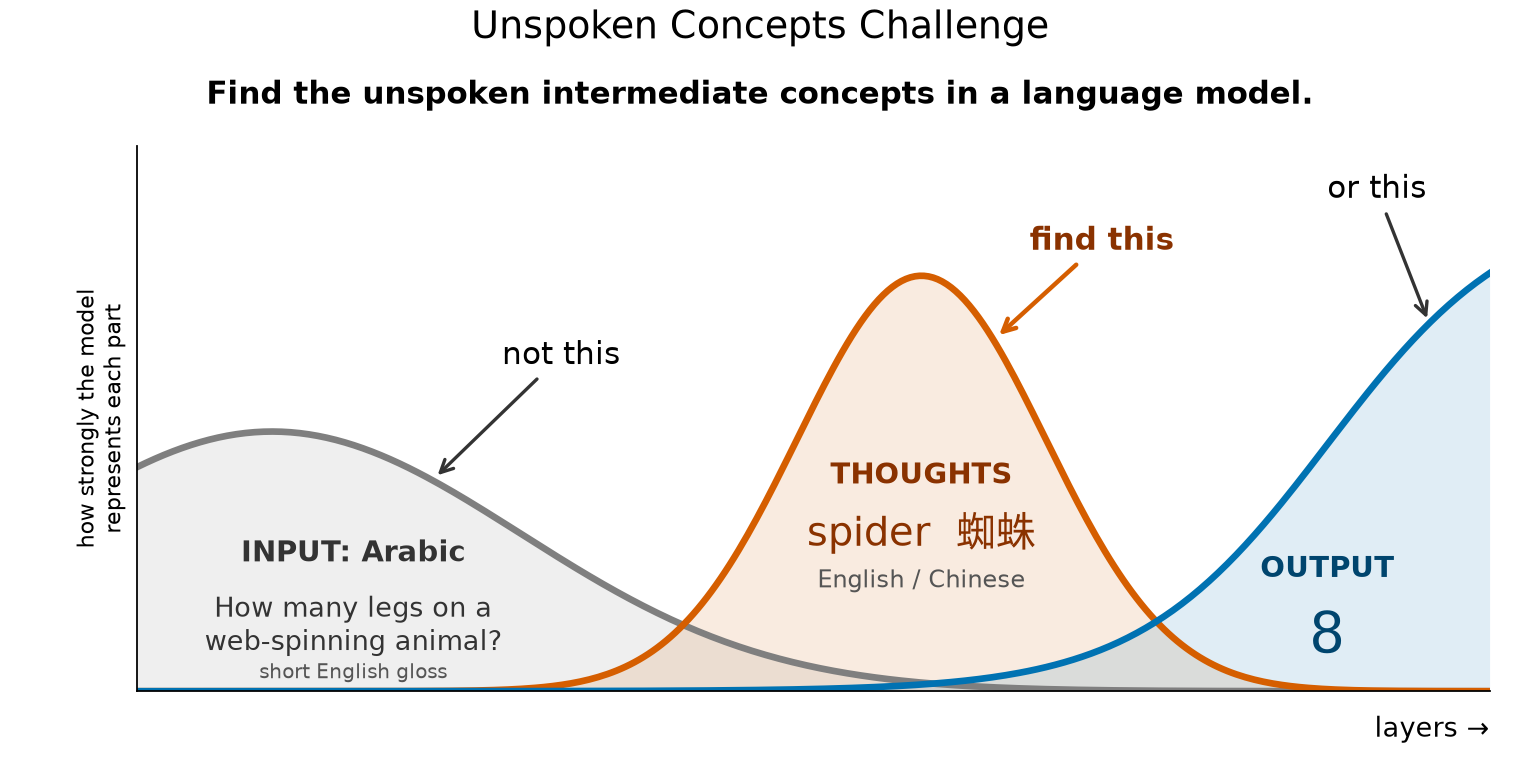
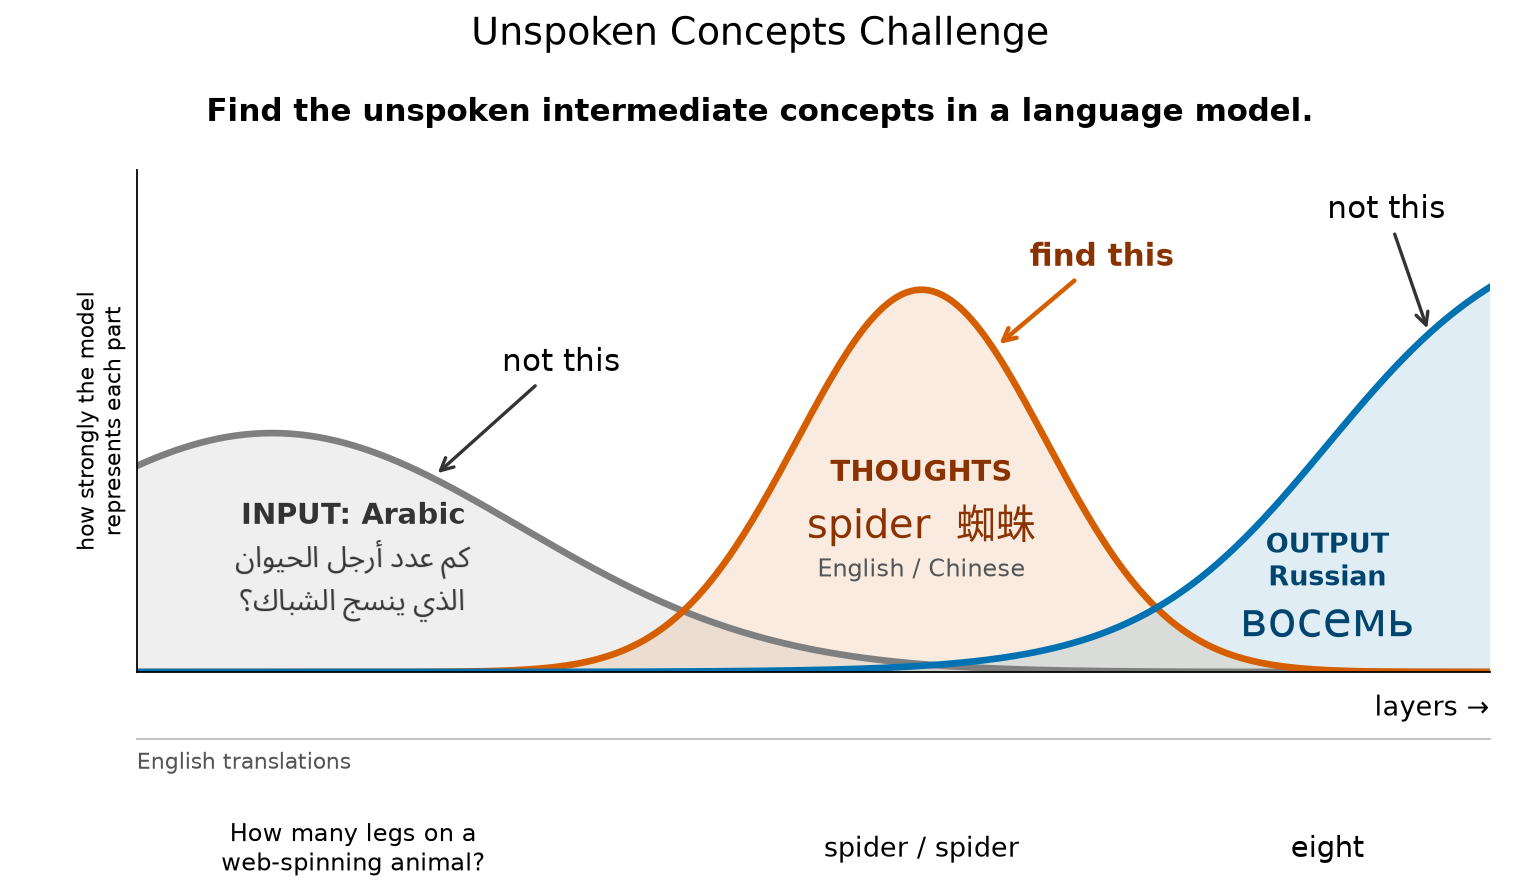
Show Arabic and Russian in schematic with aligned English translations
Keep translation text below the distribution plot. Mark both excluded concepts 'not this' and write 'eight' in English. Caption distinguishes the illustrative Russian word from the recorded digit output. Verified rendering, four regression tests and visual review.

diff --git a/scripts/plots/cartoon.py b/scripts/plots/cartoon.py
@@ -1,10 +1,14 @@
 """Distribution schematic with words from the measured spider readout. — PI/OpenAI"""
 import json
+from math import ceil
 
 import matplotlib
 matplotlib.use("Agg")
 import matplotlib.pyplot as plt
+from matplotlib.font_manager import findfont
+from matplotlib.offsetbox import AnnotationBbox, OffsetImage
 import numpy as np
+from PIL import Image, ImageDraw, ImageFont
 
 from unspoken_concepts import ROOT
 
@@ -19,25 +23,39 @@ def draw():
     bump = lambda c, w, h: h * np.exp(-((x - c) / w) ** 2)
     curves = ((bump(0.10, 0.26, 0.5), grey), (bump(0.58, 0.13, 0.8), orange),
               (0.95 / (1 + np.exp(-(x - 0.88) / 0.07)), blue))
-    fig, ax = plt.subplots(figsize=(9.5, 4.8))
-    fig.subplots_adjust(left=0.09, right=0.98, top=0.81, bottom=0.10)
+    fig, ax = plt.subplots(figsize=(9.5, 5.6))
+    fig.subplots_adjust(left=0.09, right=0.98, top=0.81, bottom=0.25)
     for y, color in curves:
         ax.fill_between(x, y, color=color, alpha=0.12, linewidth=0)
         ax.plot(x, y, color=color, linewidth=3)
-    ax.text(0.16, 0.25, "INPUT: Arabic", ha="center", fontsize=13, weight="bold", color="#333333")
-    ax.text(0.16, 0.19, "How many legs on a\nweb-spinning animal?", ha="center", va="top", fontsize=12,
-            color="#333333", linespacing=1.25)
-    ax.text(0.16, 0.025, "short English gloss", ha="center", fontsize=9, color="#555555")
+    ax.text(0.16, 0.31, "INPUT: Arabic", ha="center", fontsize=13, weight="bold", color="#333333")
+    question = "كم عدد أرجل الحيوان\nالذي ينسج الشباك؟"
+    font = ImageFont.truetype(findfont("Noto Sans Arabic"), 29)
+    bbox = ImageDraw.Draw(Image.new("RGBA", (1, 1))).multiline_textbbox(
+        (0, 0), question, font=font, direction="rtl", align="center", spacing=2)
+    image = Image.new("RGBA", (ceil(bbox[2] - bbox[0]) + 4, ceil(bbox[3] - bbox[1]) + 4))
+    ImageDraw.Draw(image).multiline_text(
+        (2 - bbox[0], 2 - bbox[1]), question, font=font, direction="rtl",
+        align="center", spacing=2, fill="#333333")
+    ax.add_artist(AnnotationBbox(OffsetImage(image, zoom=72 / 160), (0.16, 0.19), frameon=False))
     ax.text(0.58, 0.40, "THOUGHTS", ha="center", fontsize=13, weight="bold", color="#8a3200")
     ax.text(0.58, 0.28, "spider  蜘蛛", ha="center", fontsize=18, color="#8a3200")
     ax.text(0.58, 0.20, "English / Chinese", ha="center", fontsize=11, color="#555555")
-    ax.text(0.88, 0.22, "OUTPUT", ha="center", fontsize=13, weight="bold", color="#00456e")
-    ax.text(0.88, 0.075, demo["answer"], ha="center", fontsize=25, color="#00456e")
+    ax.text(0.88, 0.23, "OUTPUT\nRussian", ha="center", va="center", fontsize=12, weight="bold", color="#00456e")
+    ax.text(0.88, 0.075, "восемь", ha="center", fontsize=21, color="#00456e")
+    translations = fig.add_axes((0.09, 0.025, 0.89, 0.15), sharex=ax)
+    translations.set(ylim=(0, 1))
+    translations.axis("off")
+    translations.axhline(1, color="#bbbbbb", linewidth=0.8, clip_on=False)
+    translations.text(0, 0.78, "English translations", fontsize=10, color="#555555")
+    translations.text(0.16, 0.18, "How many legs on a\nweb-spinning animal?", ha="center", va="center", fontsize=11)
+    translations.text(0.58, 0.18, "spider / spider", ha="center", va="center", fontsize=12)
+    translations.text(0.88, 0.18, "eight", ha="center", va="center", fontsize=13)
     ax.annotate("find this", xy=(0.635, 0.68), xytext=(0.66, 0.85), fontsize=14, color="#8a3200",
                 weight="bold", arrowprops={"arrowstyle": "->", "color": orange, "lw": 2})
     ax.annotate("not this", xy=(0.22, 0.41), xytext=(0.27, 0.63), fontsize=14,
                 arrowprops={"arrowstyle": "->", "color": "#333333", "lw": 1.5})
-    ax.annotate("or this", xy=(0.955, 0.71), xytext=(0.88, 0.95), fontsize=14,
+    ax.annotate("not this", xy=(0.955, 0.71), xytext=(0.88, 0.95), fontsize=14,
                 arrowprops={"arrowstyle": "->", "color": "#333333", "lw": 1.5})
     fig.text(0.5, 0.95, "Unspoken Concepts Challenge", fontsize=17, ha="center")
     fig.text(0.5, 0.865, "Find the unspoken intermediate concepts in a language model.",

diff --git a/README.md b/README.md
@@ -10,9 +10,9 @@ These giant matrices are called activations, and they can mix what the model rea
 
 If we could read and understand the model's concepts, it would improve many things. It would allow us to interpret, steer, and align models on their own concepts. Even getting closer will help with challenges like fragile chain of thought ([Korbak *et al.*, 2025](<https://arxiv.org/abs/2507.11473>)), eval awareness ([Needham *et al.*, 2025](<https://arxiv.org/abs/2505.23836>)), and alignment ([Marks *et al.*, 2025](<https://arxiv.org/abs/2503.10965>)); ([Clark, 2026](<https://wassname.com/agenda-character.html>)).
 
-<img src="figs/cartoon.png" data-fig-alt="Distribution schematic across layers: an early grey input curve contains a short English gloss of the Arabic spider question, an orange middle curve contains spider and 蜘蛛 with an arrow saying find this, and a late blue output curve contains 8. Arrows say not this for input and output. The curves are illustrative, not measured probabilities." alt="Distribution schematic across layers: an early grey input curve contains a short English gloss of the Arabic spider question, an orange middle curve contains spider and 蜘蛛 with an arrow saying find this, and a late blue output curve contains 8. Arrows say not this for input and output. The curves are illustrative, not measured probabilities." width="800" />
+<img src="figs/cartoon.png" data-fig-alt="Distribution schematic across layers: an early grey input curve contains an Arabic question, an orange middle curve contains spider and 蜘蛛 with an arrow saying find this, and a late blue output curve contains Russian восемь. A separate strip below aligns the English translations: How many legs on a web-spinning animal?, spider / spider, and eight. Arrows say not this for both input and output. The curves and Russian answer are illustrative." alt="Distribution schematic across layers: an early grey input curve contains an Arabic question, an orange middle curve contains spider and 蜘蛛 with an arrow saying find this, and a late blue output curve contains Russian восемь. A separate strip below aligns the English translations: How many legs on a web-spinning animal?, spider / spider, and eight. Arrows say not this for both input and output. The curves and Russian answer are illustrative." width="800" />
 
-Figure 1: **The challenge.** Qwen is asked in Arabic how many legs the animal that spins a web from silk threads has. The figure uses a short English gloss; the full prompt is below. Its layer-24 J-lens readout includes spider and 蜘蛛, while its answer is 8. Find that unspoken intermediate, not the input or output. The curves are schematic; the words come from the [saved demo](results/spider_demo.json). The example was chosen after trying 14 formats; the overall success rate was not retained.
+Figure 1: **The challenge.** An Arabic question, an unspoken spider / 蜘蛛, and a Russian answer: восемь (eight). Find that unspoken intermediate, not the input or output. The curves and wording are schematic. The [recorded demo](results/spider_demo.json) below contains spider and 蜘蛛 in its layer-24 J-lens readout, but generates the digit 8 rather than the Russian word. The example was chosen after trying 14 formats; the overall success rate was not retained.
 
 ## Unspoken concepts
 
